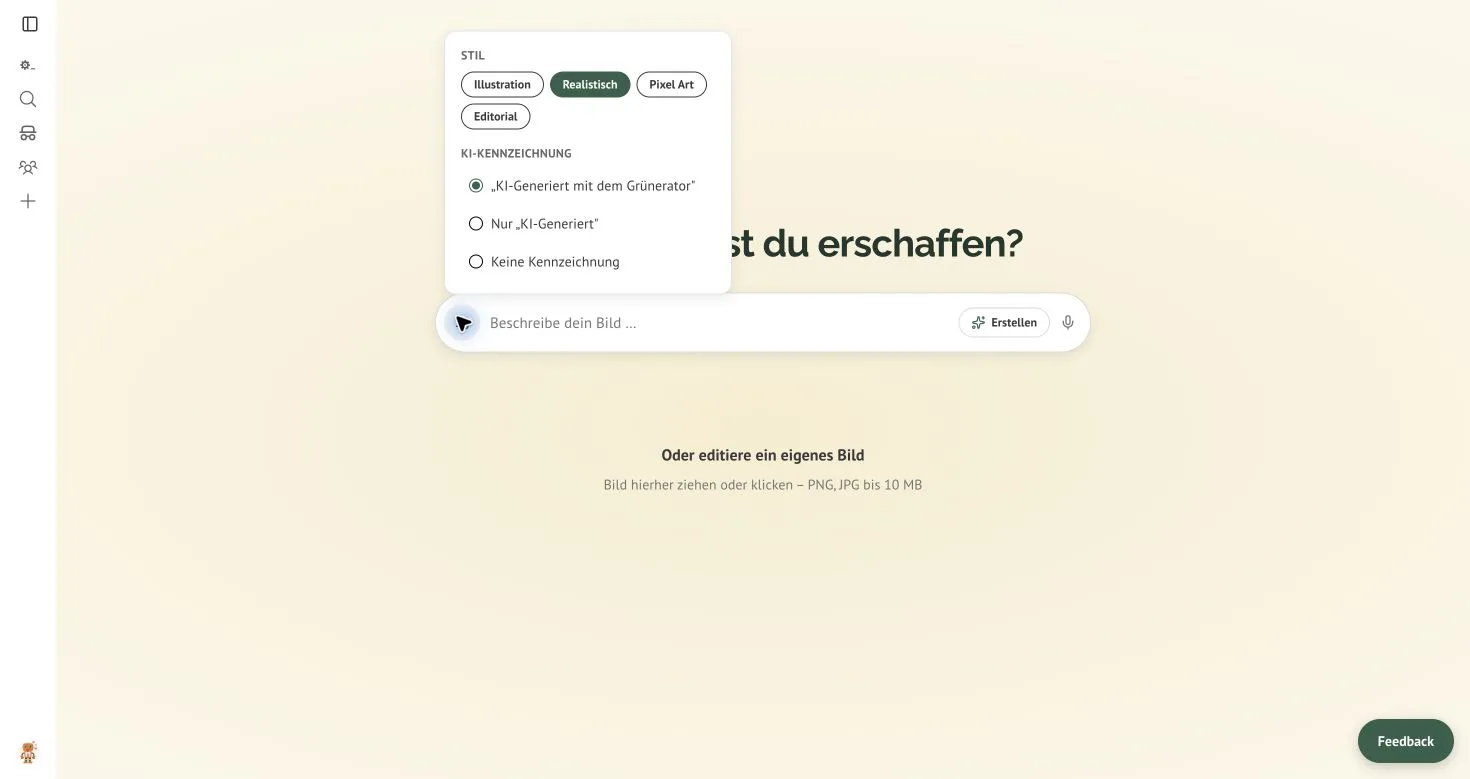
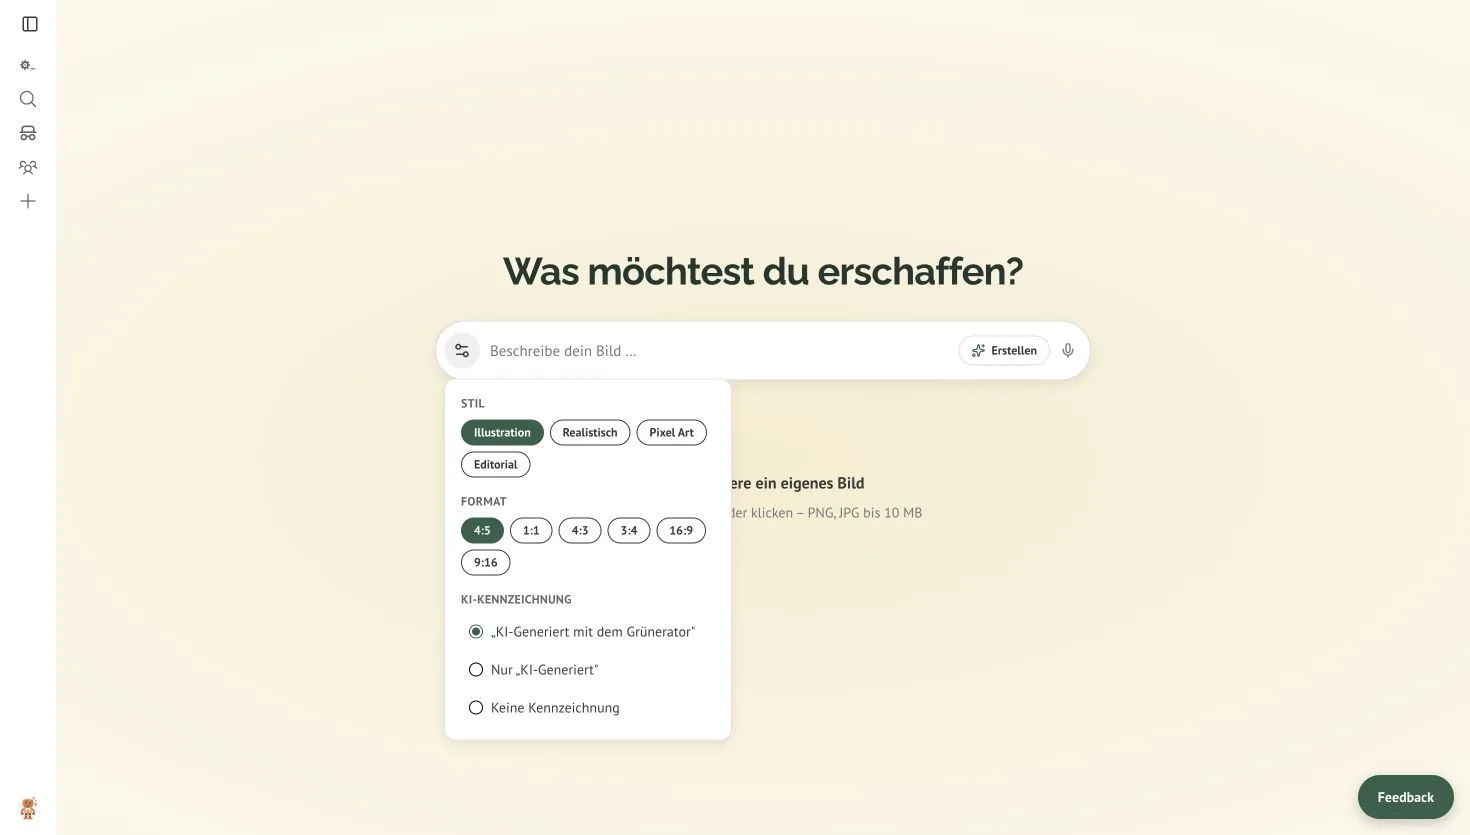
docs: update AI image format guide

diff --git a/apps/api/services/docs/docsIndex.generated.ts b/apps/api/services/docs/docsIndex.generated.ts
@@ -2209,15 +2209,15 @@ export const DOCS_SECTIONS: readonly DocSection[] = [
     "heading": "Damit die Bilder glaubwürdig werden",
     "anchor": "#damit-die-bilder-glaubwürdig-werden",
     "category": "Guides",
-    "text": "Beschreibe, was zu sehen sein soll — nicht nur das Thema. Wer ist im Bild? Wo spielt es? Welche Tageszeit, Perspektive und Stimmung soll es haben? Stelle das Format über „Vergrößern“ ein. Eine Formatangabe im Bildtext ersetzt die Größenwahl nicht. Keine falschen Tatsachenbilder. Ein KI-Bild darf nicht den Eindruck erwecken, es dokumentiere ein reales Ereignis, eine echte Person oder einen tatsächlichen Zustand, wenn das nicht stimmt. Prüfe Rechte und Privatsphäre. Lade nur Bilder hoch, die du verwenden darfst. Bei bearbeiteten Fotos brauchst du insbesondere die Rechte am Ausgangsbild und solltest abgebildete Personen nicht täuschend echt verändern."
+    "text": "Beschreibe, was zu sehen sein soll — nicht nur das Thema. Wer ist im Bild? Wo spielt es? Welche Tageszeit, Perspektive und Stimmung soll es haben? Wähle das Format in den Einstellungen. Bei einem vorhandenen Bild nutzt du dafür „Vergrößern“. Eine Formatangabe im Bildtext ersetzt die Auswahl nicht. Keine falschen Tatsachenbilder. Ein KI-Bild darf nicht den Eindruck erwecken, es dokumentiere ein reales Ereignis, eine echte Person oder einen tatsächlichen Zustand, wenn das nicht stimmt. Prüfe Rechte und Privatsphäre. Lade nur Bilder hoch, die du verwenden darfst. Bei bearbeiteten Fotos brauchst du insbesondere die Rechte am Ausgangsbild und solltest abgebildete Personen nicht täuschend echt verändern."
   },
   {
     "url": "/docs/guides/einsteigerinnen/ki-bilder-erstellen",
     "pageTitle": "Wie erstelle ich KI-Bilder?",
-    "heading": "Größe und Format einstellen",
-    "anchor": "#größe-und-format-einstellen",
+    "heading": "Format und Größe einstellen",
+    "anchor": "#format-und-größe-einstellen",
     "category": "Guides",
-    "text": "Die Größenwahl steckt nicht im Erstellen-Dialog. So bringst du ein fertiges Bild in ein anderes Seitenverhältnis: Klicke rechts im Eingabefeld auf „Bearbeiten“ und wähle „Vergrößern“. Klicke links auf das Zahnrad. Unter „Ziel-Format“ stehen 1:1, 4:3, 3:4, 16:9 und 9:16. Wähle das Format und klicke unter dem Eingabefeld auf „Auf … vergrößern“. Das Studio beschneidet das Bild dabei nicht, sondern ergänzt neuen Bildinhalt an den fehlenden Rändern. Aus dem automatisch erzeugten Bild mit 1088 × 1360 Pixeln entstehen rechnerisch diese Zielgrößen: 1:1: 1360 × 1360 Pixel 4:3: 1813 × 1360 Pixel 3:4: 1088 × 1451 Pixel 9:16: 1088 × 1934 Pixel 16:9 funktioniert bei einem automatisch erzeugten 4:5-Bild derzeit nicht: Das nötige Ziel wäre 2418 × 1360 Pixel groß und überschreitet damit die Grenze von 2048 Pixeln pro Seite. Das Studio zeigt in diesem Fall eine Fehlermeldung. Mit einem kleineren hochgeladenen Ausgangsbild kann 16:9 funktionieren."
+    "text": "Beim Erstellen wählst du das Format direkt in den Einstellungen. Das Studio verwendet dafür diese Größen: 4:5: 1088 × 1360 Pixel 1:1: 1216 × 1216 Pixel 4:3: 1408 × 1056 Pixel 3:4: 1056 × 1408 Pixel 16:9: 1792 × 1008 Pixel 9:16: 1008 × 1792 Pixel Ein bereits vorhandenes Bild bringst du so in ein anderes Seitenverhältnis: Klicke rechts im Eingabefeld auf „Bearbeiten“ und wähle „Vergrößern“. Klicke links auf „Einstellungen“. Unter „Ziel-Format“ stehen 4:5, 1:1, 4:3, 3:4, 16:9 und 9:16. Wähle das Format und klicke unter dem Eingabefeld auf „Auf … vergrößern“. Das Studio beschneidet das Bild dabei nicht, sondern ergänzt neuen Bildinhalt an den fehlenden Rändern. Das funktioniert jetzt auch für 16:9 bei einem automatisch erzeugten 4:5-Bild. Die genaue Pixelgröße beim Vergrößern hängt vom Ausgangsbild ab."
   },
   {
     "url": "/docs/guides/einsteigerinnen/ki-bilder-erstellen",
@@ -2225,7 +2225,7 @@ export const DOCS_SECTIONS: readonly DocSection[] = [
     "heading": "So geht's",
     "anchor": "#so-gehts",
     "category": "Guides",
-    "text": "Studio öffnen. Öffne im Bereich Arbeiten das Studio und wähle KI-Bilder. Damit öffnet sich der Bild-Editor unter /bild-editor. Bild konkret beschreiben. Im Feld „Beschreibe dein Bild …“ nennst du Motiv, Ort, Perspektive, Licht und Stimmung. Zum Beispiel: „Eine schöne Stadt“ ist zu allgemein. „Geschützte Radwege“, die Tageszeit und der dokumentarische Stil geben dem Bild dagegen eine klare Richtung. Stil wählen. Klicke links im Eingabefeld auf das Zahnrad und wähle Illustration, Realistisch, Pixel Art oder Editorial. Alle vier Stile erzeugen zunächst ein Bild mit 1088 × 1360 Pixeln im Format 4:5. Eine andere Größe stellst du erst nach der Erstellung ein. Erstellen und Ergebnis prüfen. Schicke die Beschreibung mit dem Pfeil ab. Das Ergebnis erhält automatisch die sichtbare Kennzeichnung „KI-Generiert mit dem Grünerator“. Prüfe anschließend Menschen, Gegenstände, Schilder und die politische Aussage: KI-Bilder können überzeugend wirken und trotzdem falsche oder unplausible Details enthalten."
+    "text": "Studio öffnen. Öffne im Bereich Arbeiten das Studio und wähle KI-Bilder. Damit öffnet sich der Bild-Editor unter /bild-editor. Bild konkret beschreiben. Im Feld „Beschreibe dein Bild …“ nennst du Motiv, Ort, Perspektive, Licht und Stimmung. Zum Beispiel: „Eine schöne Stadt“ ist zu allgemein. „Geschützte Radwege“, die Tageszeit und der dokumentarische Stil geben dem Bild dagegen eine klare Richtung. Stil, Format und Kennzeichnung wählen. Klicke links im Eingabefeld auf „Einstellungen“. Dort stellst du ein: Stil: Illustration, Realistisch, Pixel Art oder Editorial Format: 4:5, 1:1, 4:3, 3:4, 16:9 oder 9:16 KI-Kennzeichnung: „KI-Generiert mit dem Grünerator“, nur „KI-Generiert“ oder keine Kennzeichnung Vorausgewählt sind Illustration, 4:5 und „KI-Generiert mit dem Grünerator“. Wenn du die Kennzeichnung änderst, wird genau diese Auswahl auf das neue Bild angewendet. Ohne sichtbare Kennzeichnung musst du ein realistisches KI-Bild („Deepfake“) beim Veröffentlichen gegebenenfalls selbst als KI-Bild kennzeichnen. Die maschinenlesbare Kennzeichnung bleibt in den Metadaten erhalten. Erstellen und Ergebnis prüfen. Schicke die Beschreibung mit dem Pfeil ab. Prüfe anschließend Format und…"
   },
   {
     "url": "/docs/guides/einsteigerinnen/ki-bilder-erstellen",
